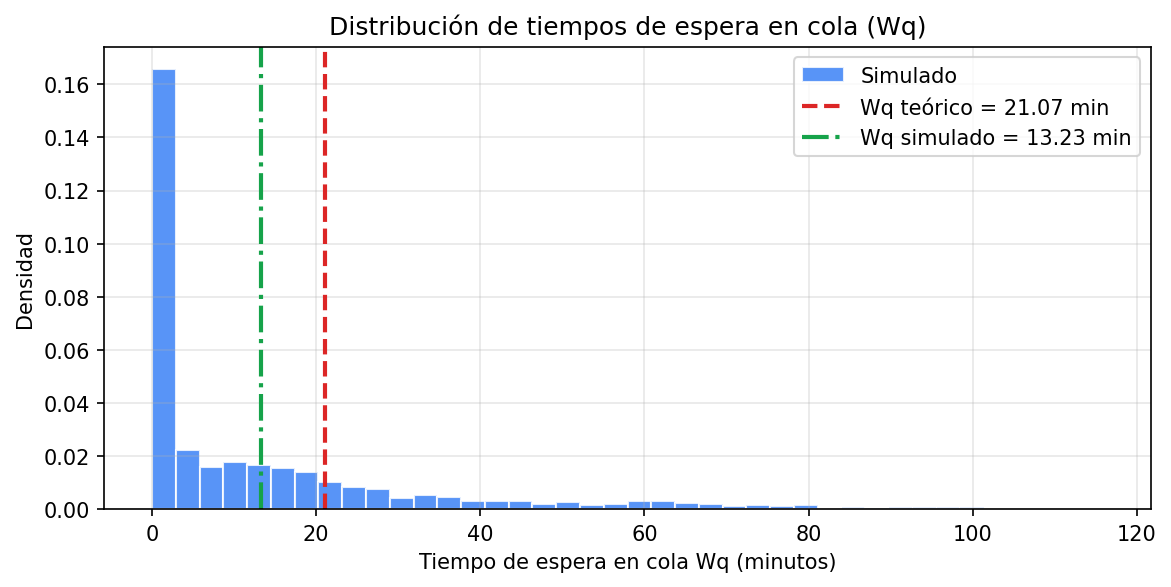
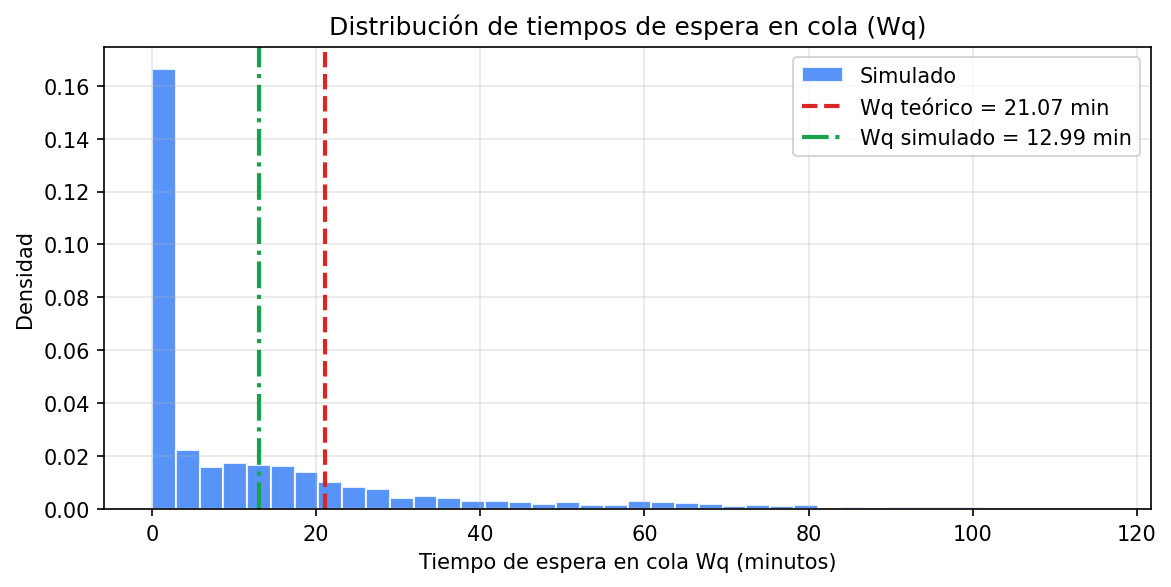
"correcciones"

diff --git a/simulacion_des.py b/simulacion_des.py
@@ -66,11 +66,9 @@ def proceso_cliente(
     cliente.t_fin = env.now
     recurso.release(req)
 
-    stats.registrar_servicio(t_servicio)
-
-    # Solo registrar clientes que terminaron después del warm-up
-    if cliente.t_llegada >= t_warm:
-        clientes_terminados.append(cliente)
+    if cliente.t_fin >= t_warm:
+      stats.registrar_servicio(t_servicio)
+      clientes_terminados.append(cliente)
 
 
 # ---------------------------------------------------------------------------

diff --git a/sensibilidad.py b/sensibilidad.py
@@ -17,9 +17,9 @@ from montecarlo import correr_replicas
 
 def analisis_sensibilidad(
     mu: float = 4.0,
-    t_sim: float = 480.0,
-    t_warm: float = 60.0,
-    N: int = 30,
+    t_sim: float = 1440,
+    t_warm: float = 180,
+    N: int = 100,
     semilla_base: int = 42,
     c_valores: list | None = None,
     lam_valores: list | None = None,
